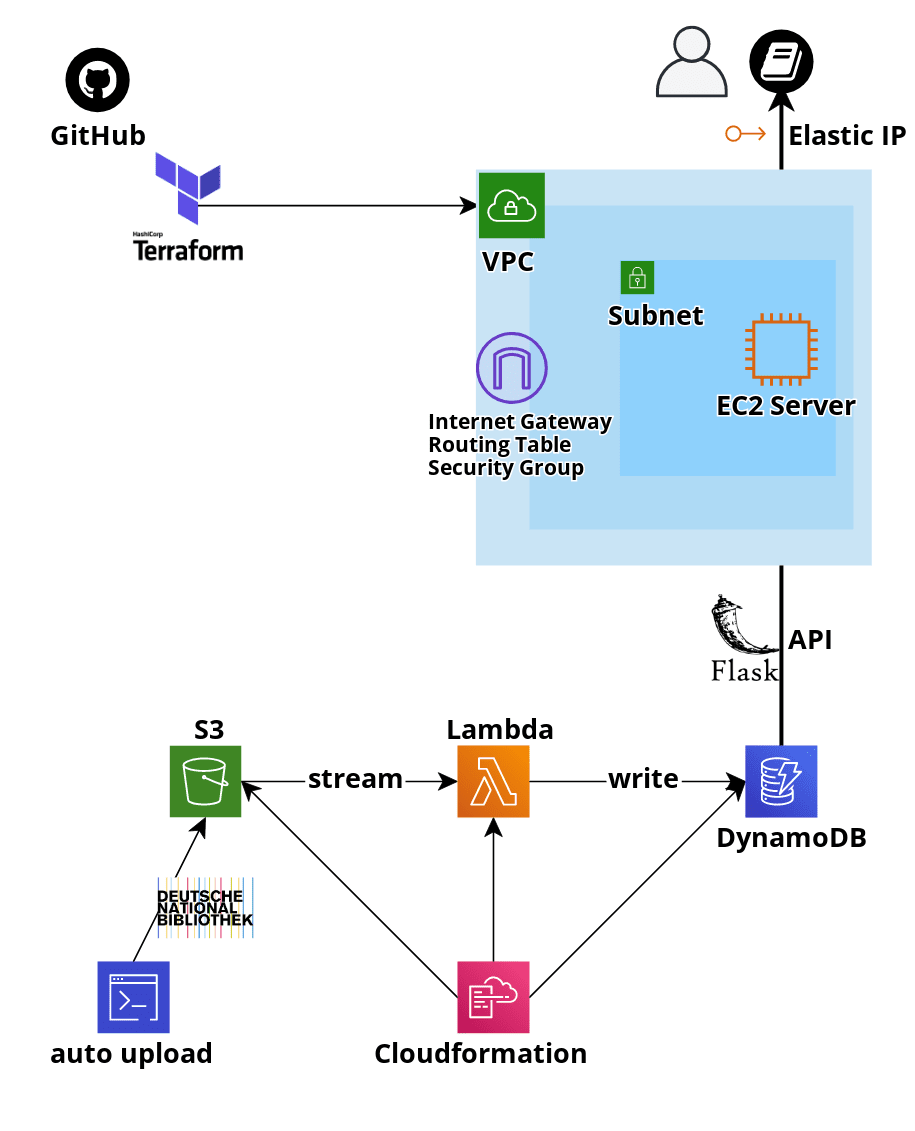
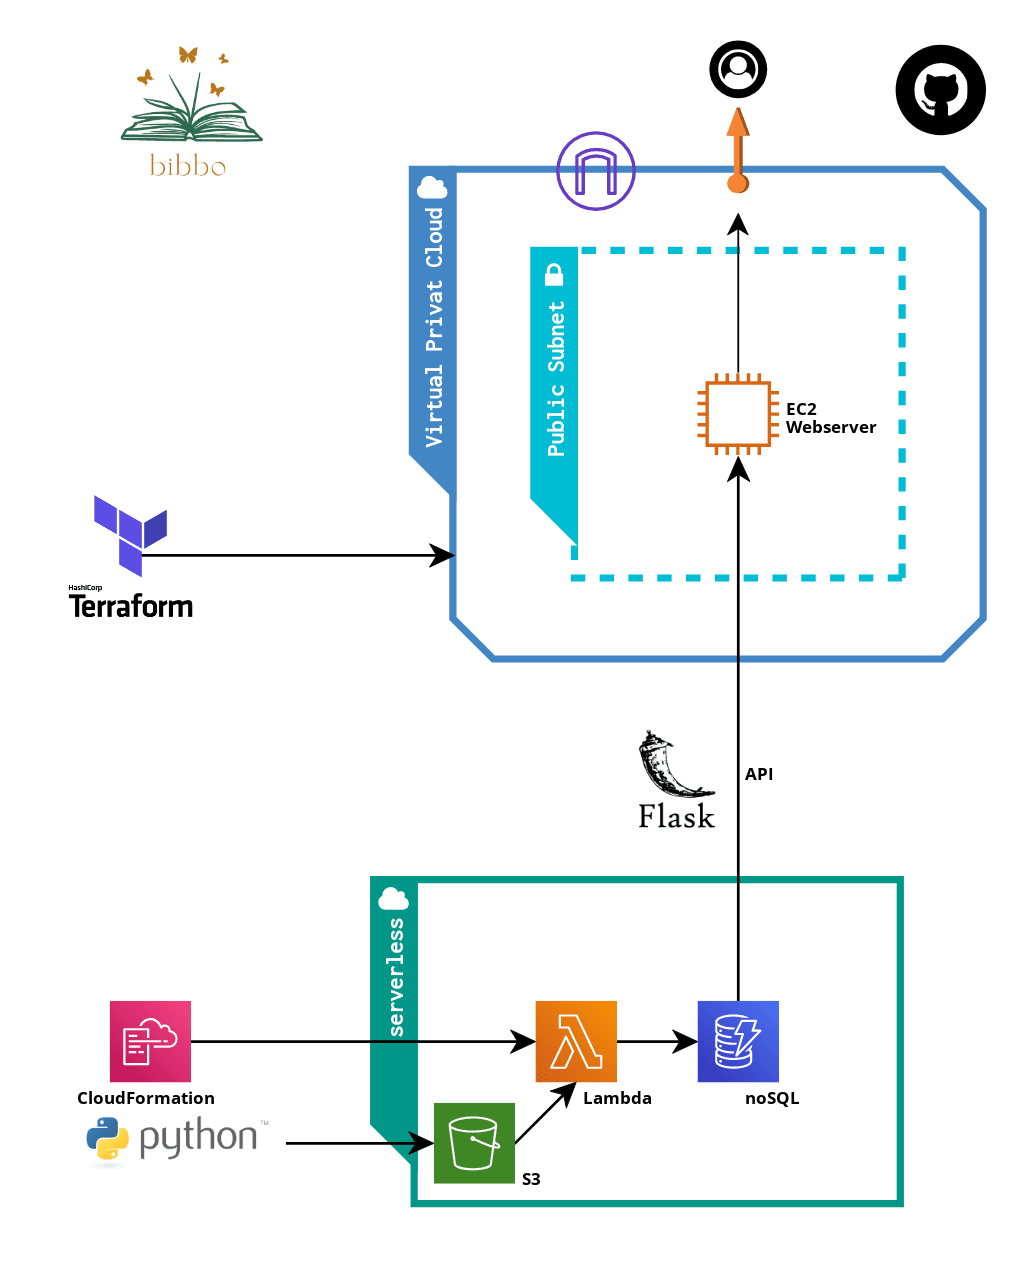
Update screenshot

diff --git a/README.md b/README.md
@@ -7,16 +7,16 @@ bibbo is a use case for scientific libraries and reads files from the weekly "ne
 
 
 ### Tools ☁
-- Automated Upload to S3
+- Automated upload to S3
 - Infrastructure as Code 
-    - Cloud Formation
+    - Amazon CloudFormation
     - Terraform
-- DynamoDB
+- Amazon DynamoDB (noSQL)
 - Flask API
-- AWS Lambda 
-- AWS Cloud Front
-- VPC 
-- HTML Website
+- Amazon Lambda 
+- Amazon Cloudwatch
+- Amazon VPC 
+- HTML
 
 #
 ![First Sketch](./screenshots/nora_bernhardt.png)
